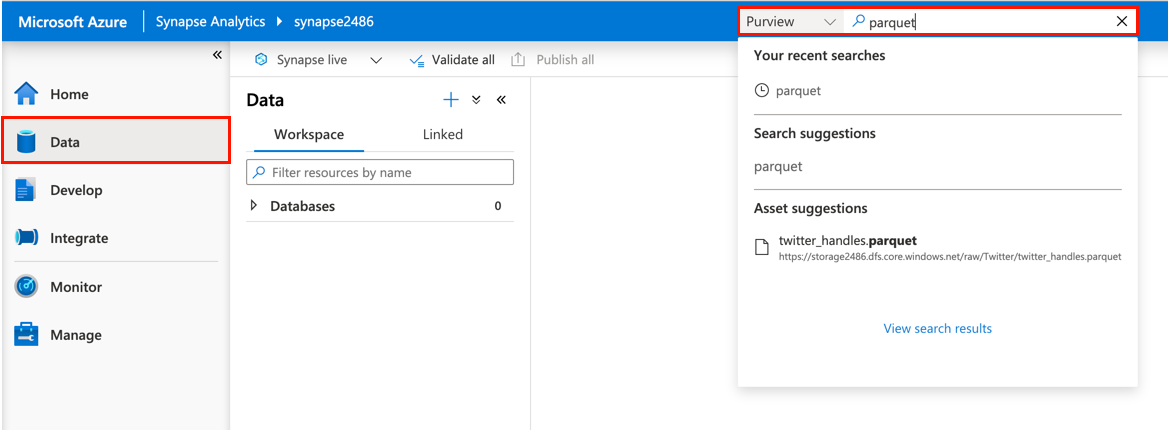
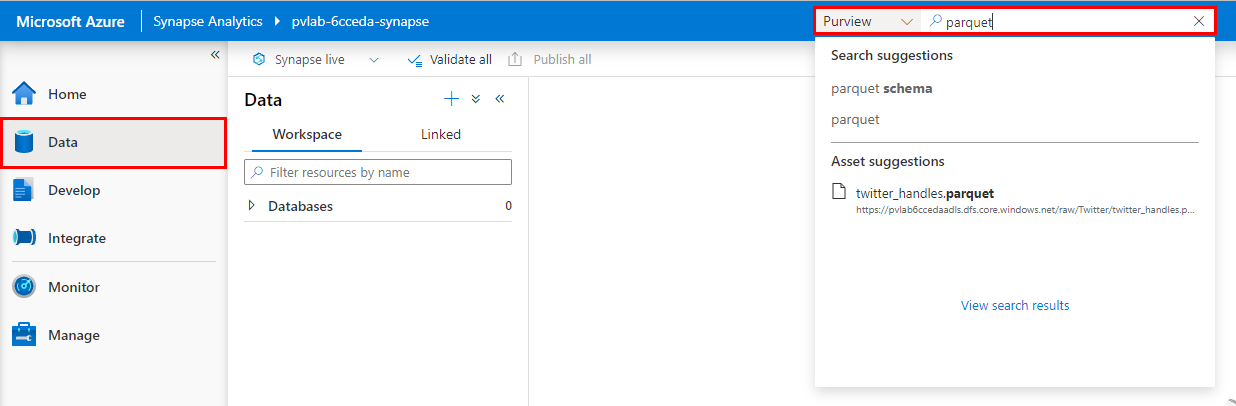
module09

diff --git a/modules/module09.md b/modules/module09.md
@@ -10,7 +10,7 @@
 
 ## :loudspeaker: Introduction
 
-Registering an Azure Purview account to a Synapse workspace allows you to discover Azure Purview assets and interact with them through Synapse specific capabilities.
+Registering an Azure Purview account to a Synapse workspace allows you to discover Azure Purview assets, interact with them through Synapse specific capabilities, and push lineage information to Azure Purview.
 
 ## :dart: Objectives
 
@@ -28,8 +28,11 @@ Registering an Azure Purview account to a Synapse workspace allows you to discov
 
 ## 1. Azure Data Lake Storage Gen2 Account Access
 
-* This particular unit builds upon  previous modules (e.g. pre-provisioned Azure Purview account with an Azure Data Lake Storage Gen2 account registered and scanned, see prerequisites for more details).
-* While this exercise will focus on how to integrate Azure Purview with Azure Synapse Analytics, if you would like to test the ability to connect to external sources within Synapse Studio, you will need to ensure the account being used to perform ad-hoc queries has sufficient privileges (e.g. Storage Blob Data Reader).
+> :bulb: **Did you know?**
+>
+> One of the key benefits of integrating Azure Purview with Azure Synapse Analytics, is the ability to discover Azure Purview assets from within Synapse Studio (i.e. no need to swtich between experiences) with the added ability to interact using Synapse specific capabilities (e.g. SELECT TOP 100). 
+>
+> Note: Before we can demonstrate the ability to query external data sources from Azure Synapse Analytics, we need to ensure our account has the appropriate level of access (i.e. `Storage Blob Data Reader`).
 
 1. Navigate to the **Access Control (IAM)** screen within the Azure Data Lake Storage Gen2 account provisioned in [module 02](../modules/module02.md) and click **Add role assignments**.
 
@@ -44,41 +47,6 @@ Registering an Azure Purview account to a Synapse workspace allows you to discov
     | Select | `<account-name>` |
 
     ![Storage RBAC Assignment](../images/module09/09.02-storage-rbac.png)
-
-<div align="right"><a href="#module-09---integrate-with-azure-synapse-analytics">↥ back to top</a></div>
-
-## 2. Create an Azure Synapse Analytics Workspace
-
-1. Navigate to the Azure Portal and create an **Azure Synapse Analytics** resource.
-
-    ![Azure Marketplace Synapse](../images/module09/09.03-marketplace-synapse.png)
-
-2. Provide the necessary inputs on the **Basics** tab and click **Next: Security >**.
-
-    > Note: The table below provides example values for illustrative purposes only, ensure to specify values that make sense for your deployment.
-
-    | Parameter  | Example Value |
-    | --- | --- |
-    | Subscription | `Azure Internal Access` |
-    | Resource group | `purview-workshop` |
-    | Workspace name | `synapse2486` |
-    | Region | `Brazil South` |
-    | (ADLS Gen2) Account name | `(Create new) synapseadls2486` |
-    | (ADLS Gen2)  File system name | `(Create new) synapsefs2486` |
-
-    ![Create Synapse Workspace](../images/module09/09.04-synapse-basics.png)
-
-3. Enter a **password** for the SQL administrator and click **Review + create**.
-
-    ![Synapse Workspace Security](../images/module09/09.05-synapse-security.png)
-
-4. Click **Create**.
-
-    ![Validate Synapse Workspace](../images/module09/09.06-synapse-validate.png)
-
-5. Monitor your deployment until the status changes to **Your deployment is complete**.
-
-    ![Synapse Workspace Deployment Complete](../images/module09/09.07-synapse-deployment.png)
 
 <div align="right"><a href="#module-09---integrate-with-azure-synapse-analytics">↥ back to top</a></div>
 
